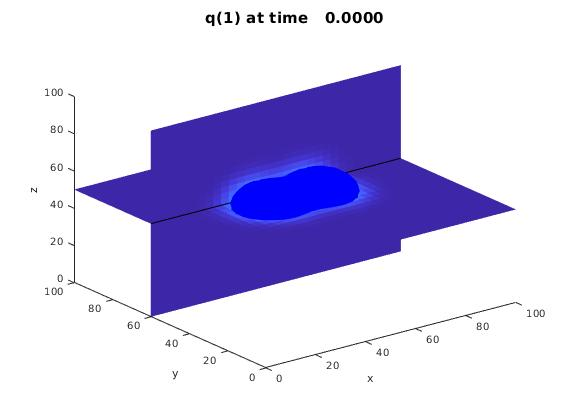
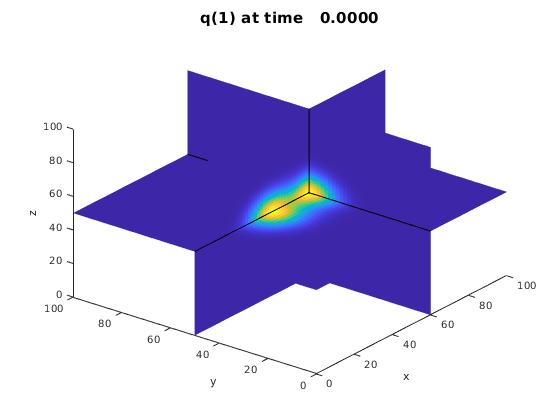
Add files via upload

diff --git a/Retreat'25/Kapitel/Conclusion.tex b/Retreat'25/Kapitel/Conclusion.tex
@@ -64,7 +64,7 @@
     
     
     %-------------------------------------------------------
-    %Example 1
+    %Example 0
     %-------------------------------------------------------
     %if (xi .lt. 50.d0) then
     % uzk = 10.0d0
@@ -84,21 +84,72 @@
     
 
     %-------------------------------------------------------
-    %Example 2
+    %Example 1
     %-------------------------------------------------------
     %  if (xi .le. 50.d0) then
     %  wxi = 1.d0
     %  wyj = 1.d0
-    %  wzk = 0.d0
     %    else
     %  wxi = -1.d0
     %  wyj = -1.d0
-    %  wzk = 0.d0
     %  end if
+    %  wzk = 0.d0
     %  r1 = dsqrt((xi-40.d0)**2+(yj-50.d0)**2+(zk-50.d0)**2)
-    %  r2 = dsqrt((xi-60.d0)**2+(yj-50.d0)**2+(zk-50.d0)**2)
-    %  q(i,j,k,1) = exp(-0.01*r1**2) + exp(-0.01*r2**2) 
+    %  q(i,j,k,1) = exp(-0.001*r1**2)
     %-------------------------------------------------------
+    
+         \begin{frame}{Numerical Result for externally imposed velocity field}
+    	\scriptsize
+    	Consider (\ref{3D-hyperbolic}) with externally imposed velocity field of the form
+    	\[
+    	w(x,y,z) =
+    	\begin{cases}
+    		(1,\,1,\,0), & x \leq 50, \\[6pt]
+    		(-1,\,-1,\,0), & x > 50 .
+    	\end{cases}
+    	\]
+    	Let 
+    	\[
+    	r = \sqrt{(x-40)^2+(y-50)^2+(z-50)^2}, \quad
+    	c^0_0(x, y, k, 0) = \exp(-0.001 \, r^2)
+    	\] 
+    	be the initial value. 
+    	
+    	\begin{figure}[H]
+    		\centering
+    		\begin{minipage}{0.32\textwidth}
+    			\includegraphics[width=\linewidth]{Bilder_3D/1Glocke_wxi=wyj=1_wzk=0_2Cluster_t=0}
+    		\end{minipage}
+    		\hfill 
+    		\begin{minipage}{0.32\textwidth}
+    			\includegraphics[width=\linewidth]{Bilder_3D/1Glocke_wxi=wyj=1_wzk=0_2Cluster_t=28}
+    		\end{minipage}
+    		\hfill 
+    		\begin{minipage}{0.32\textwidth}
+    			\includegraphics[width=\linewidth]{Bilder_3D/1Glocke_wxi=wyj=1_wzk=0_2Cluster_t=200}
+    		\end{minipage}
+    		\caption{Solution of $c^0_0$ showing the splitting of an initial Gaussian peak into two clusters.}
+    	\end{figure}
+    \end{frame}
+
+%-------------------------------------------------------
+%Example 2
+%-------------------------------------------------------
+%  if (xi .le. 50.d0) then
+%  wxi = 1.d0
+%  wyj = 1.d0
+%  wzk = 0.d0
+%    else
+%  wxi = -1.d0
+%  wyj = -1.d0
+%  wzk = 0.d0
+%  end if
+%  r1 = dsqrt((xi-40.d0)**2+(yj-50.d0)**2+(zk-50.d0)**2)
+%  r2 = dsqrt((xi-60.d0)**2+(yj-50.d0)**2+(zk-50.d0)**2)
+%  q(i,j,k,1) = exp(-0.01*r1**2) + exp(-0.01*r2**2) 
+%-------------------------------------------------------
+
+\begin{comment}
      \begin{frame}{Numerical Result for externally imposed velocity field}
     	\scriptsize
     	\begin{figure}[H]
@@ -123,6 +174,7 @@
     		\caption{Evolution of $c^0_0$ at different times, showing two Gaussian clusters transported in opposite directions by a piecewise constant velocity field ($w_x=w_y=1$ for $x<50$, $w_x=w_y=-1$ otherwise, and $w_z=0$ everywhere).}
     	\end{figure}
     \end{frame}
+\end{comment}
     
     \begin{frame}{Conclusion}
      \begin{itemize}

diff --git a/Retreat'25/Kapitel/Moment_Eq.tex b/Retreat'25/Kapitel/Moment_Eq.tex
@@ -13,7 +13,7 @@
 	In spherical coordinates and for the given velocity field $\boldsymbol{u}$, we get
 	\begin{equation}
 		\begin{aligned}
-			\sin\theta \partial_{t}f & + \textcolor{gray!80}{\nabla_{\boldsymbol{x}} \cdot(\boldsymbol{u} f)} + \textcolor{red}{\partial_x (\cos\phi \cos\theta \sin^2\theta f)} \\
+			\sin\theta \partial_{t}f & + \nabla_{\boldsymbol{x}} \cdot(\boldsymbol{u} f) + \textcolor{red}{\partial_x (\cos\phi \cos\theta \sin^2\theta f)} \\
 			&= - \textcolor{blue}{\partial_\theta \left(w_x \sin^3 \theta \cos \phi f\right)} + \textcolor{blue}{D_{r} \left( \partial_\phi \left(\frac{1}{\sin \theta} \partial_\phi f \right) + \partial_\theta (\sin \theta \partial_\theta f) \right)}, \\
 			& Re \partial_{t}w(x,t) = \partial_{xx}w + \delta \left( \bar{\rho} - \int_{0}^{2\pi} \int_{0}^{\pi} f \sin \theta \, d\theta \, d\phi \right). \label{SmochEq_wx}
 		\end{aligned}
